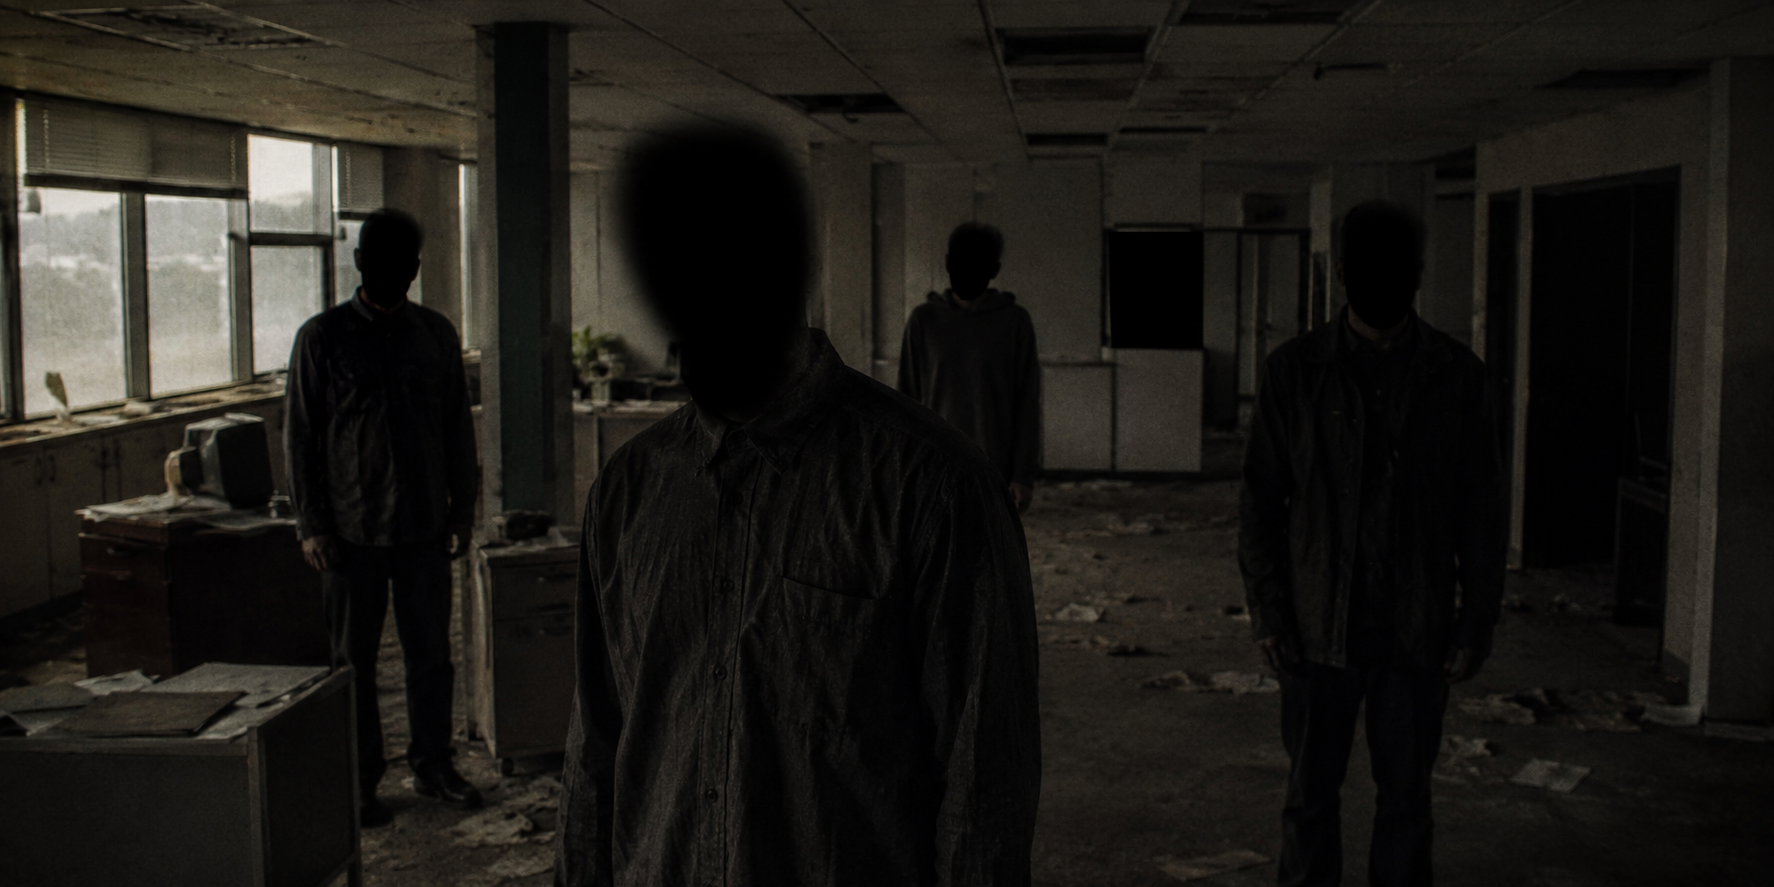
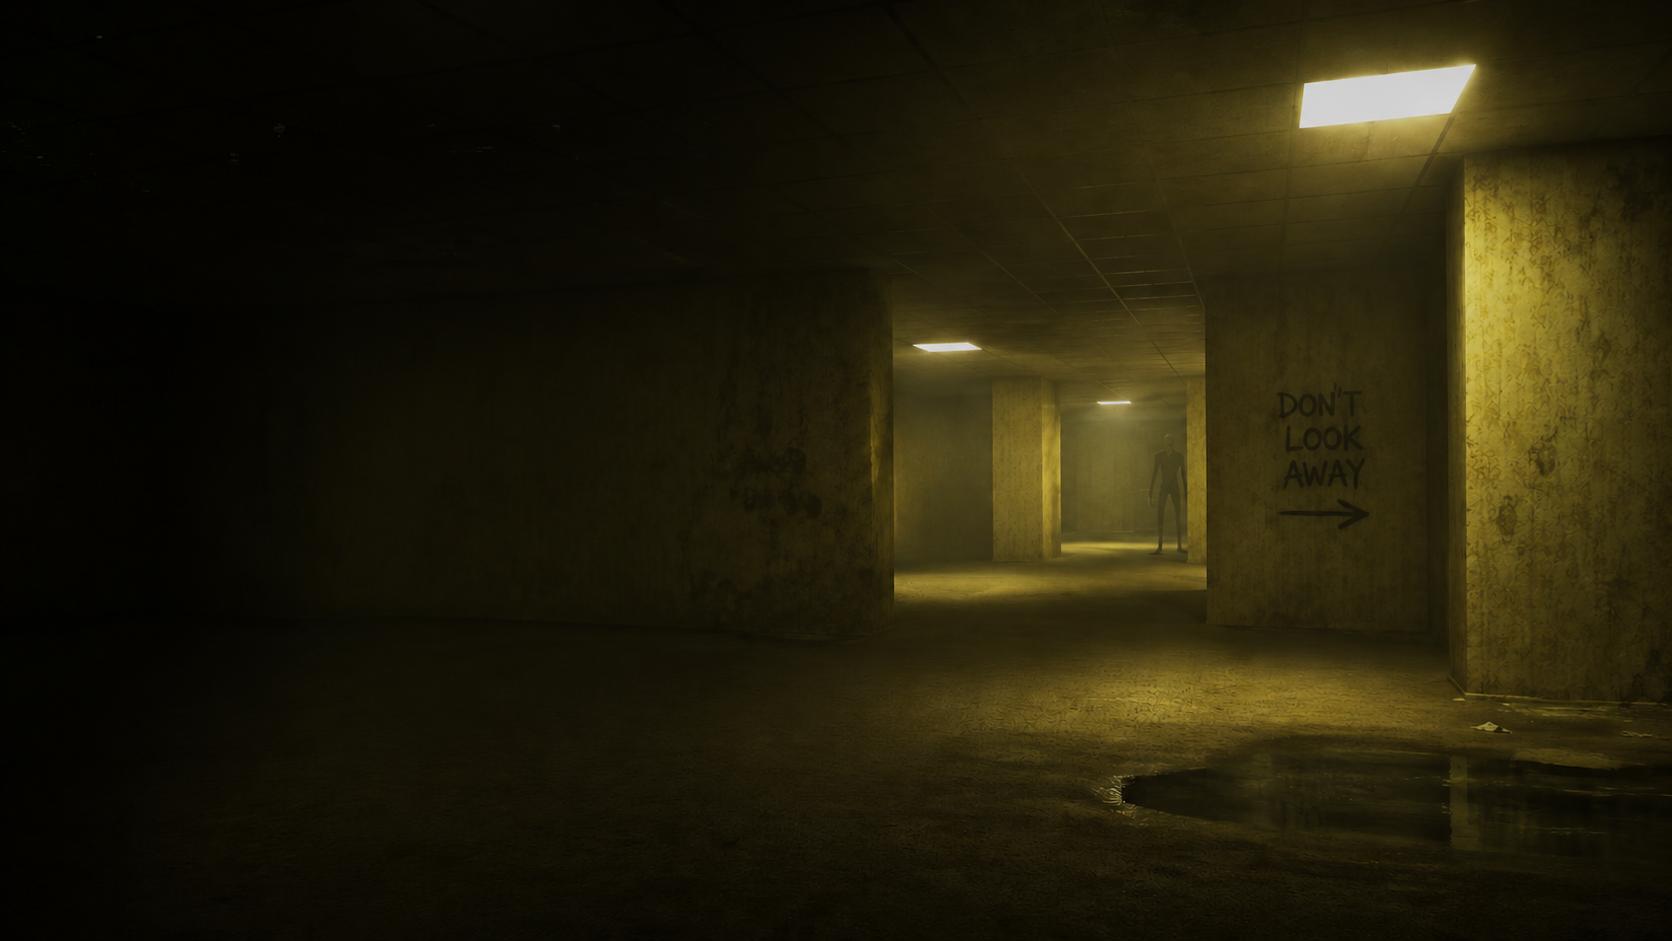
feat: add incidents description

diff --git a/js/locales/data-en.js b/js/locales/data-en.js
@@ -297,12 +297,21 @@ const guideDataEn = [
         subsections: [
             {
                 id: "sub4-1",
+                title: "About incidents",
+                content: `
+                    <img src="./img/section4/sub4-1.png" alt="Incidents" class="content-image">
+                    <p>Incidents are sudden anomalous occurrences that can only occur at unsafe levels and represent a deadly threat.</p>
+                    <p>A warning about the incident beginning is some anomalous behavior at the level. Each incident has strict conditions, observing which, there is a chance for a positive outcome. The negative outcome is always a mysterious death.</p>
+                `
+            },
+            {
+                id: "sub4-2",
                 title: "Incident №1",
                 content: `
-                    <img src="./img/section4/sub4-1.png" alt="Incident №1" class="content-image">
-                    <p>Name: "Black heads".<br>Level: 8.<br>Chance of occurrence: 10%.</p>
-                    <p>Incident conditions:<br>1. Do not look at entities with black heads.<br>2. Do not go toward strange sounds.<br>3. Move toward the computers.<br>4. At a computer, find and open the file "Incident_1.exe".</p>
-                    <p>Chance of positive outcome if conditions are met: 90%.<br>Positive outcome: all entities disappear from the level until the next visit.<br>Negative outcome: instant death by suffocation.</p>
+                    <img src="./img/section4/sub4-2.png" alt="Incident №1" class="content-image">
+                    <p>Name: "Black heads".<br>Level: 8.<br>Chance of occurrence: 25%.</p>
+                    <p>If all entities at the level have black heads, then the following rules must be followed:<br>1. Do not look at entities with black heads.<br>2. Do not go toward strange sounds.<br>3. Move toward the computers.<br>4. At a computer, find and open the file "Incident_1.exe".</p>
+                    <p>Chance of positive outcome if conditions are met: 95%.<br>Positive outcome: all entities disappear from the level until the next visit.<br>Negative outcome: instant death by suffocation.</p>
                 `
             }
         ]

diff --git a/js/locales/data-ru.js b/js/locales/data-ru.js
@@ -297,12 +297,21 @@ const guideDataRu = [
         subsections: [
             {
                 id: "sub4-1",
+                title: "Об инцидентах",
+                content: `
+                    <img src="./img/section4/sub4-1.png" alt="Инциденты" class="content-image">
+                    <p>Инциденты - это внезапные аномальные случаи, которые могут появиться только на небезопасных уровнях и несут смертельную угрозу.</p>
+                    <p>Предупреждением о начале инцидента является некоторое аномальное поведение на уровне. Каждый инцидент имеет жесткие условия, соблюдая которые, появляется шанс на удачный исход. Неудачным исходом всегда является загадочная смерть.</p>
+                `
+            },
+            {
+                id: "sub4-2",
                 title: "Инцидент №1",
                 content: `
-                    <img src="./img/section4/sub4-1.png" alt="Инцидент №1" class="content-image">
-                    <p>Название: "Черные головы".<br>Уровень: 8.<br>Шанс появления: 10%.</p>
-                    <p>Условия инцидента:<br>1. Нельзя смотреть на сущностей с черными головами.<br>2. Нельзя идти в сторону странных звуков.<br>3. Необходимо двигаться в сторону компьютеров.<br>4. За компьютером найти и открыть файл "Incident_1.exe".</p>
-                    <p>Шанс удачных последствий при выполнении условий: 90%.<br>Удачные последствия инцидента: пропажа всех сущностей с уровня до следующего посещения.<br>Неудачные последствия инцидента: моментальная смерть от удушья.</p>
+                    <img src="./img/section4/sub4-2.png" alt="Инцидент №1" class="content-image">
+                    <p>Название: "Черные головы".<br>Уровень: 8.<br>Шанс появления: 25%.</p>
+                    <p>Если на уровне у всех сущностей черные головы, то необходимо придерживаться следующих правил:<br>1. Нельзя смотреть на сущностей с черными головами.<br>2. Нельзя идти в сторону странных звуков.<br>3. Необходимо двигаться в сторону компьютеров.<br>4. За компьютером найти и открыть файл "Incident_1.exe".</p>
+                    <p>Шанс удачного исхода при выполнении условий: 95%.<br>Удачный исход: пропажа всех сущностей с уровня до следующего посещения.<br>Неудачный исход: моментальная смерть от удушья.</p>
                 `
             }
         ]

diff --git a/js/region.js b/js/region.js
@@ -1,4 +1,4 @@
-const ruLanguageRegions = ['BY', 'UA', 'KZ', 'KG', 'TJ'];//['RU', 'BY', 'UA', 'KZ', 'KG', 'TJ'];
+const ruLanguageRegions = ['RU', 'BY', 'UA', 'KZ', 'KG', 'TJ'];
 
 function detectRegion() {
     return new Promise((resolve) => {